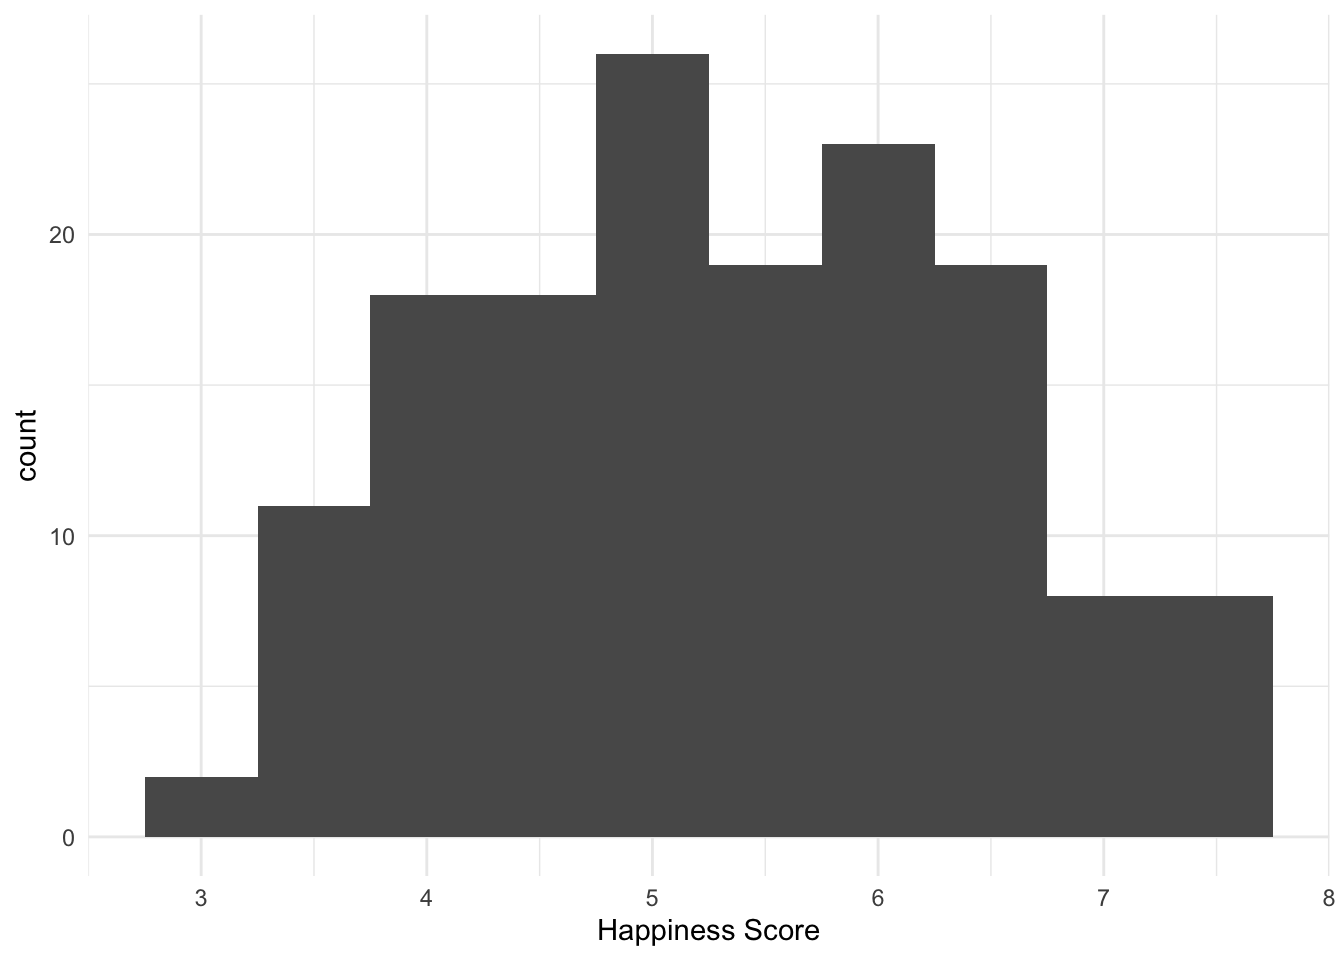
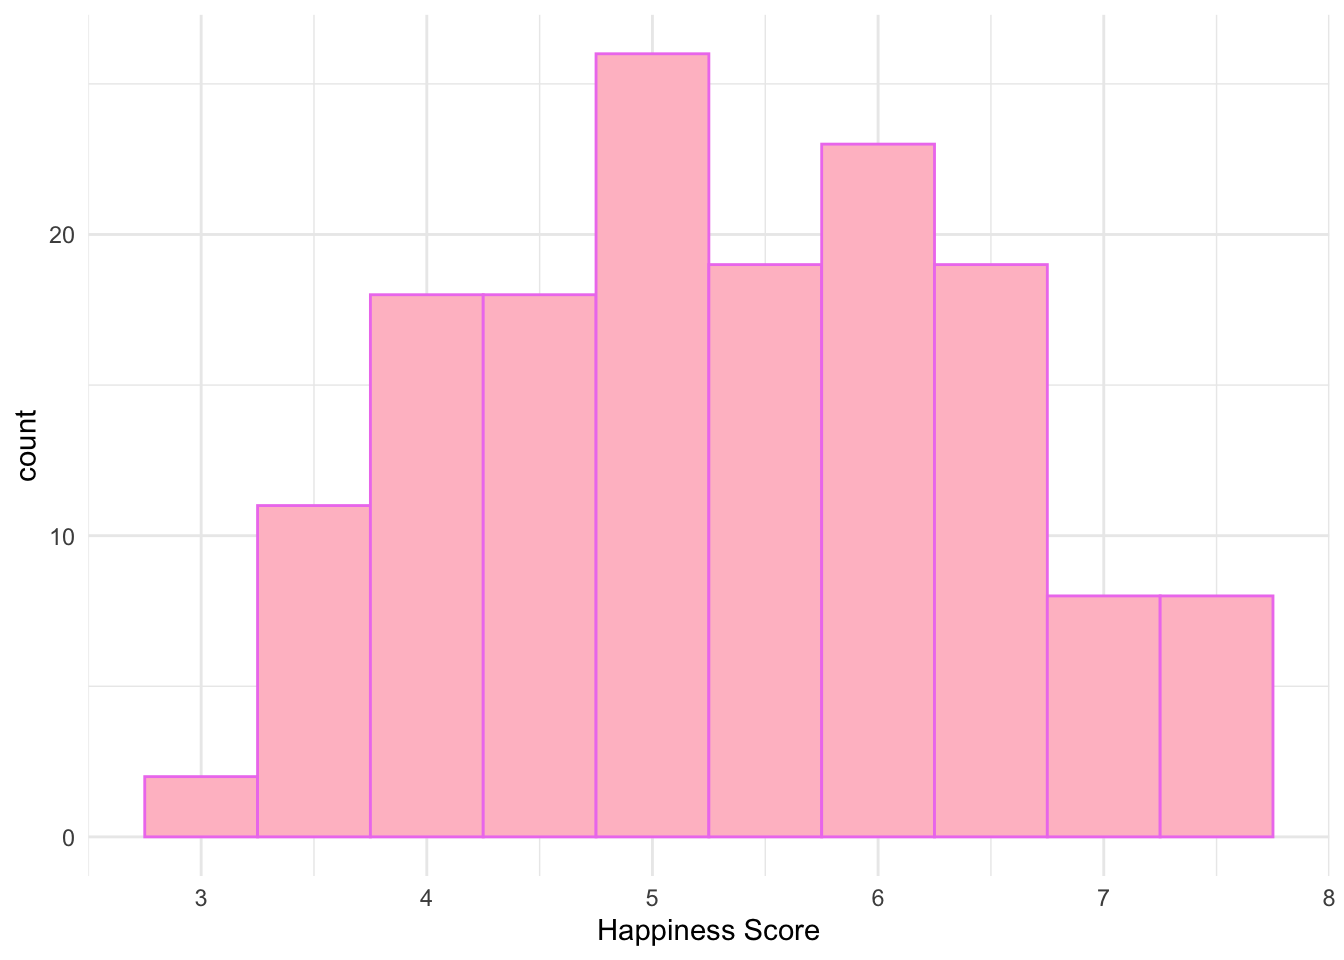
viz upd

diff --git a/docs/R_analysis.html b/docs/R_analysis.html
@@ -1216,27 +1216,30 @@ summary(whr_new$<code>Happiness Score</code>)</p>
 <span id="cb159-4"><a href="R_analysis.html#cb159-4" aria-hidden="true" tabindex="-1"></a>  <span class="fu">theme_minimal</span>()</span></code></pre></div>
 <pre><code>## Warning: Removed 5 rows containing non-finite values (`stat_bin()`).</code></pre>
 <p><img src="StatsForDA_files/figure-html/unnamed-chunk-43-1.png" width="672" /></p>
-<p>Можем регулировать ширину “кирпичика”</p>
-<div class="sourceCode" id="cb161"><pre class="sourceCode r"><code class="sourceCode r"><span id="cb161-1"><a href="R_analysis.html#cb161-1" aria-hidden="true" tabindex="-1"></a>whr_new <span class="sc">%&gt;%</span> </span>
-<span id="cb161-2"><a href="R_analysis.html#cb161-2" aria-hidden="true" tabindex="-1"></a>  <span class="fu">ggplot</span>(<span class="fu">aes</span>(<span class="at">x =</span> <span class="st">`</span><span class="at">Happiness Score</span><span class="st">`</span>)) <span class="sc">+</span></span>
-<span id="cb161-3"><a href="R_analysis.html#cb161-3" aria-hidden="true" tabindex="-1"></a>  <span class="fu">geom_histogram</span>(<span class="at">binwidth =</span> <span class="fl">0.5</span>) <span class="sc">+</span></span>
-<span id="cb161-4"><a href="R_analysis.html#cb161-4" aria-hidden="true" tabindex="-1"></a>  <span class="fu">theme_minimal</span>()</span></code></pre></div>
+<div class="sourceCode" id="cb161"><pre class="sourceCode r"><code class="sourceCode r"><span id="cb161-1"><a href="R_analysis.html#cb161-1" aria-hidden="true" tabindex="-1"></a><span class="co"># Можем регулировать ширину &quot;кирпичика&quot;</span></span>
+<span id="cb161-2"><a href="R_analysis.html#cb161-2" aria-hidden="true" tabindex="-1"></a></span>
+<span id="cb161-3"><a href="R_analysis.html#cb161-3" aria-hidden="true" tabindex="-1"></a>whr_new <span class="sc">%&gt;%</span> </span>
+<span id="cb161-4"><a href="R_analysis.html#cb161-4" aria-hidden="true" tabindex="-1"></a>  <span class="fu">ggplot</span>(<span class="fu">aes</span>(<span class="at">x =</span> <span class="st">`</span><span class="at">Happiness Score</span><span class="st">`</span>)) <span class="sc">+</span></span>
+<span id="cb161-5"><a href="R_analysis.html#cb161-5" aria-hidden="true" tabindex="-1"></a>  <span class="fu">geom_histogram</span>(<span class="at">binwidth =</span> <span class="fl">0.5</span>) <span class="sc">+</span></span>
+<span id="cb161-6"><a href="R_analysis.html#cb161-6" aria-hidden="true" tabindex="-1"></a>  <span class="fu">theme_minimal</span>()</span></code></pre></div>
+<pre><code>## Warning: Removed 5 rows containing non-finite values (`stat_bin()`).</code></pre>
+<p><img src="StatsForDA_files/figure-html/unnamed-chunk-43-2.png" width="672" /></p>
+<p>Можем менять цвета у двух вещей: заливки и контура, как и обычно у фигур в паверпоинте или ворде. Для заливки используется аругмент fill, для контура – color. У некоторых геомов есть только контур – как, например, диаграмма рассеяния, так как точки не имеют заливки.</p>
+<div class="sourceCode" id="cb163"><pre class="sourceCode r"><code class="sourceCode r"><span id="cb163-1"><a href="R_analysis.html#cb163-1" aria-hidden="true" tabindex="-1"></a><span class="co"># раскрасим заливку (fill) в розовый, а линии (color) в фиолетовый</span></span>
+<span id="cb163-2"><a href="R_analysis.html#cb163-2" aria-hidden="true" tabindex="-1"></a><span class="co"># можем использовать не слова вроде pink и violet, а коды цветов в 16-ричной системе, например &quot;#355C7D&quot;</span></span>
+<span id="cb163-3"><a href="R_analysis.html#cb163-3" aria-hidden="true" tabindex="-1"></a>whr_new <span class="sc">%&gt;%</span></span>
+<span id="cb163-4"><a href="R_analysis.html#cb163-4" aria-hidden="true" tabindex="-1"></a>  <span class="fu">ggplot</span>(<span class="fu">aes</span>(<span class="at">x =</span><span class="st">`</span><span class="at">Happiness Score</span><span class="st">`</span>)) <span class="sc">+</span></span>
+<span id="cb163-5"><a href="R_analysis.html#cb163-5" aria-hidden="true" tabindex="-1"></a>  <span class="fu">geom_histogram</span>(<span class="at">fill =</span> <span class="st">&quot;pink&quot;</span>, <span class="at">color =</span> <span class="st">&quot;violet&quot;</span>, <span class="at">binwidth =</span> <span class="fl">0.5</span>) <span class="sc">+</span></span>
+<span id="cb163-6"><a href="R_analysis.html#cb163-6" aria-hidden="true" tabindex="-1"></a>  <span class="fu">theme_minimal</span>()</span></code></pre></div>
 <pre><code>## Warning: Removed 5 rows containing non-finite values (`stat_bin()`).</code></pre>
 <p><img src="StatsForDA_files/figure-html/unnamed-chunk-44-1.png" width="672" /></p>
-<div class="sourceCode" id="cb163"><pre class="sourceCode r"><code class="sourceCode r"><span id="cb163-1"><a href="R_analysis.html#cb163-1" aria-hidden="true" tabindex="-1"></a><span class="co"># раскрасим заливку (fill) в розовый, а линии (color) в фиолетовый</span></span>
-<span id="cb163-2"><a href="R_analysis.html#cb163-2" aria-hidden="true" tabindex="-1"></a>whr_new <span class="sc">%&gt;%</span></span>
-<span id="cb163-3"><a href="R_analysis.html#cb163-3" aria-hidden="true" tabindex="-1"></a>  <span class="fu">ggplot</span>(<span class="fu">aes</span>(<span class="at">x =</span><span class="st">`</span><span class="at">Happiness Score</span><span class="st">`</span>)) <span class="sc">+</span></span>
-<span id="cb163-4"><a href="R_analysis.html#cb163-4" aria-hidden="true" tabindex="-1"></a>  <span class="fu">geom_histogram</span>(<span class="at">fill =</span> <span class="st">&quot;pink&quot;</span>, <span class="at">color =</span> <span class="st">&quot;violet&quot;</span>, <span class="at">binwidth =</span> <span class="fl">0.5</span>) <span class="sc">+</span></span>
-<span id="cb163-5"><a href="R_analysis.html#cb163-5" aria-hidden="true" tabindex="-1"></a>  <span class="fu">theme_minimal</span>()</span></code></pre></div>
-<pre><code>## Warning: Removed 5 rows containing non-finite values (`stat_bin()`).</code></pre>
-<p><img src="StatsForDA_files/figure-html/unnamed-chunk-44-2.png" width="672" /></p>
 <div class="sourceCode" id="cb165"><pre class="sourceCode r"><code class="sourceCode r"><span id="cb165-1"><a href="R_analysis.html#cb165-1" aria-hidden="true" tabindex="-1"></a><span class="co"># добавим 50% прозрачности</span></span>
 <span id="cb165-2"><a href="R_analysis.html#cb165-2" aria-hidden="true" tabindex="-1"></a>whr_new <span class="sc">%&gt;%</span></span>
 <span id="cb165-3"><a href="R_analysis.html#cb165-3" aria-hidden="true" tabindex="-1"></a>  <span class="fu">ggplot</span>(<span class="fu">aes</span>(<span class="at">x =</span><span class="st">`</span><span class="at">Happiness Score</span><span class="st">`</span>)) <span class="sc">+</span></span>
 <span id="cb165-4"><a href="R_analysis.html#cb165-4" aria-hidden="true" tabindex="-1"></a>  <span class="fu">geom_histogram</span>(<span class="at">fill =</span> <span class="st">&quot;pink&quot;</span>, <span class="at">color =</span> <span class="st">&quot;violet&quot;</span>, <span class="at">alpha =</span> <span class="fl">0.5</span>, <span class="at">binwidth =</span> <span class="fl">0.5</span>) <span class="sc">+</span></span>
 <span id="cb165-5"><a href="R_analysis.html#cb165-5" aria-hidden="true" tabindex="-1"></a>  <span class="fu">theme_minimal</span>()</span></code></pre></div>
 <pre><code>## Warning: Removed 5 rows containing non-finite values (`stat_bin()`).</code></pre>
-<p><img src="StatsForDA_files/figure-html/unnamed-chunk-44-3.png" width="672" /></p>
+<p><img src="StatsForDA_files/figure-html/unnamed-chunk-44-2.png" width="672" /></p>
 <p>Построим аналогичный график плотности вероятности</p>
 <div class="sourceCode" id="cb167"><pre class="sourceCode r"><code class="sourceCode r"><span id="cb167-1"><a href="R_analysis.html#cb167-1" aria-hidden="true" tabindex="-1"></a>whr_new <span class="sc">%&gt;%</span> </span>
 <span id="cb167-2"><a href="R_analysis.html#cb167-2" aria-hidden="true" tabindex="-1"></a>  <span class="fu">ggplot</span>(<span class="fu">aes</span>(<span class="at">x =</span> <span class="st">`</span><span class="at">Happiness Score</span><span class="st">`</span>)) <span class="sc">+</span></span>
@@ -1266,7 +1269,7 @@ summary(whr_new$<code>Happiness Score</code>)</p>
 <span id="cb173-4"><a href="R_analysis.html#cb173-4" aria-hidden="true" tabindex="-1"></a>  <span class="fu">theme_minimal</span>()</span></code></pre></div>
 <pre><code>## Warning: Removed 5 rows containing missing values (`geom_point()`).</code></pre>
 <p><img src="StatsForDA_files/figure-html/unnamed-chunk-46-1.png" width="672" /></p>
-<p>И можем даже раскрасить точки на этом графике в зависимости от третьей переменной! Например, региона. Тут следующее правило: если хотим залить фигуру, то для раскраски используется аругмент fill. Если покрасить контур, то используется аргумент color (как контур и заливка в ворде или паверпоинт). У некоторых геомов есть только контур – как, например, диаграмма рассеяния.</p>
+<p>И можем даже раскрасить точки на этом графике в зависимости от третьей переменной! Например, региона. Все ровно так же, как и с цветами до этого: если хотим залить фигуру в зависимости от значений третьей переменной, то для раскраски используется аругмент fill, если покрасить контур – то color (как контур и заливка в ворде или паверпоинт). Но с той разницей, что теперь fill color задаются <strong>внутри аестетик</strong>, так как это все еще про “натягивание совы на глобус”, то есть наших данных на график.</p>
 <div class="sourceCode" id="cb175"><pre class="sourceCode r"><code class="sourceCode r"><span id="cb175-1"><a href="R_analysis.html#cb175-1" aria-hidden="true" tabindex="-1"></a>whr_new <span class="sc">%&gt;%</span></span>
 <span id="cb175-2"><a href="R_analysis.html#cb175-2" aria-hidden="true" tabindex="-1"></a>  <span class="fu">ggplot</span>(<span class="fu">aes</span>(<span class="at">x =</span> <span class="st">`</span><span class="at">Happiness Score</span><span class="st">`</span>, <span class="at">y =</span> Freedom, <span class="at">color =</span> Region)) <span class="sc">+</span></span>
 <span id="cb175-3"><a href="R_analysis.html#cb175-3" aria-hidden="true" tabindex="-1"></a>  <span class="fu">geom_point</span>() <span class="sc">+</span></span>
@@ -1281,8 +1284,8 @@ summary(whr_new$<code>Happiness Score</code>)</p>
 <li>Посчитайте, сколько всего суммарно NA в колонках <code>Economy (GDP per Capita)</code>, <code>Family</code>, <code>Health (Life Expectancy)</code>, <code>Freedom</code>, <code>Trust (Government Corruption)</code>, <code>Generosity</code> <em>(задание можно сделать разными способами, подойдет любой, дающий верный овтет)</em></li>
 <li>Посчитайте описательные статистики для колонок <code>Economy (GDP per Capita)</code>, <code>Family</code>, <code>Freedom</code>: среднее, медиану, моду, стандартное отклонение, дисперсию и межквартильный размах, а также <em>(только для тех, кто работает в R)</em> вычислите значения для 1 и 3 квартилей. Ответы должны быть отличны от <code>NA</code> <em>(один из способов узнать значения по квартилям – например, с помощью отдельных общих функций для описательных статистик)</em>.</li>
 <li>Используя созданную в <a href="R_analysis.html#tasks_sem3">прошлой домашке</a> колонку co значениями <code>upper</code> и <code>lower</code> в зависимости от значений <code>Happiness Score</code>, посчитайте среднее и стандартное отклонения внутри этих групп (<code>upper</code> и <code>lower</code>) для колонок <code>Economy (GDP per Capita)</code>, <code>Family</code>, <code>Freedom</code>. <em>(Только для тех, кто работает в R)</em> Сравните полученные средние значения со значениями для 1 и 3 квартилей из предыдущего задания. Что можно сказать про них?</li>
-<li>Постройте графики плотности вероятности для переменных <code>Family</code> и <code>Freedom</code>, используя как минимум 2 отличиные от дефолтных настройки (тему, цвет, тип линии, прозрачность и тд.) Примеры можно погуглить или посмотреть в <a href="https://github.com/rstudio/cheatsheets/blob/main/data-visualization.pdf">читшите</a></li>
-<li>Постройте диаграмму рассеяния для переменной <code>Family</code> по переменной <code>Freedom</code> и раскрасьте точки в зависимости от значений переменной с upper и lower, созданной в прошлой домашке.</li>
+<li>Постройте графики плотности вероятности для переменных <code>Family</code> и <code>Freedom</code>, <em>(только для тех, кто работает в R)</em> используя как минимум 2 отличиные от дефолтных настройки (тему, цвет, тип линии, прозрачность и тд.) Примеры можно погуглить или посмотреть в <a href="https://github.com/rstudio/cheatsheets/blob/main/data-visualization.pdf">читшите</a></li>
+<li>Постройте диаграмму рассеяния для переменной <code>Family</code> по переменной <code>Freedom</code> и <em>(только для тех, кто работает в R)</em> раскрасьте точки в зависимости от значений переменной с upper и lower, созданной в прошлой домашке.</li>
 <li>Посчитайте коэффициент корреляции между переменными <code>Family</code> и <code>Freedom</code>.</li>
 </ol>
 

diff --git a/docs/404.html b/docs/404.html
@@ -54,6 +54,70 @@
 <script src="libs/anchor-sections-1.1.0/anchor-sections.js"></script>
 
 
+<style type="text/css">
+pre > code.sourceCode { white-space: pre; position: relative; }
+pre > code.sourceCode > span { display: inline-block; line-height: 1.25; }
+pre > code.sourceCode > span:empty { height: 1.2em; }
+.sourceCode { overflow: visible; }
+code.sourceCode > span { color: inherit; text-decoration: inherit; }
+pre.sourceCode { margin: 0; }
+@media screen {
+div.sourceCode { overflow: auto; }
+}
+@media print {
+pre > code.sourceCode { white-space: pre-wrap; }
+pre > code.sourceCode > span { text-indent: -5em; padding-left: 5em; }
+}
+pre.numberSource code
+  { counter-reset: source-line 0; }
+pre.numberSource code > span
+  { position: relative; left: -4em; counter-increment: source-line; }
+pre.numberSource code > span > a:first-child::before
+  { content: counter(source-line);
+    position: relative; left: -1em; text-align: right; vertical-align: baseline;
+    border: none; display: inline-block;
+    -webkit-touch-callout: none; -webkit-user-select: none;
+    -khtml-user-select: none; -moz-user-select: none;
+    -ms-user-select: none; user-select: none;
+    padding: 0 4px; width: 4em;
+    color: #aaaaaa;
+  }
+pre.numberSource { margin-left: 3em; border-left: 1px solid #aaaaaa;  padding-left: 4px; }
+div.sourceCode
+  {   }
+@media screen {
+pre > code.sourceCode > span > a:first-child::before { text-decoration: underline; }
+}
+code span.al { color: #ff0000; font-weight: bold; } /* Alert */
+code span.an { color: #60a0b0; font-weight: bold; font-style: italic; } /* Annotation */
+code span.at { color: #7d9029; } /* Attribute */
+code span.bn { color: #40a070; } /* BaseN */
+code span.bu { color: #008000; } /* BuiltIn */
+code span.cf { color: #007020; font-weight: bold; } /* ControlFlow */
+code span.ch { color: #4070a0; } /* Char */
+code span.cn { color: #880000; } /* Constant */
+code span.co { color: #60a0b0; font-style: italic; } /* Comment */
+code span.cv { color: #60a0b0; font-weight: bold; font-style: italic; } /* CommentVar */
+code span.do { color: #ba2121; font-style: italic; } /* Documentation */
+code span.dt { color: #902000; } /* DataType */
+code span.dv { color: #40a070; } /* DecVal */
+code span.er { color: #ff0000; font-weight: bold; } /* Error */
+code span.ex { } /* Extension */
+code span.fl { color: #40a070; } /* Float */
+code span.fu { color: #06287e; } /* Function */
+code span.im { color: #008000; font-weight: bold; } /* Import */
+code span.in { color: #60a0b0; font-weight: bold; font-style: italic; } /* Information */
+code span.kw { color: #007020; font-weight: bold; } /* Keyword */
+code span.op { color: #666666; } /* Operator */
+code span.ot { color: #007020; } /* Other */
+code span.pp { color: #bc7a00; } /* Preprocessor */
+code span.sc { color: #4070a0; } /* SpecialChar */
+code span.ss { color: #bb6688; } /* SpecialString */
+code span.st { color: #4070a0; } /* String */
+code span.va { color: #19177c; } /* Variable */
+code span.vs { color: #4070a0; } /* VerbatimString */
+code span.wa { color: #60a0b0; font-weight: bold; font-style: italic; } /* Warning */
+</style>
 
 
 <link rel="stylesheet" href="style.css" type="text/css" />
